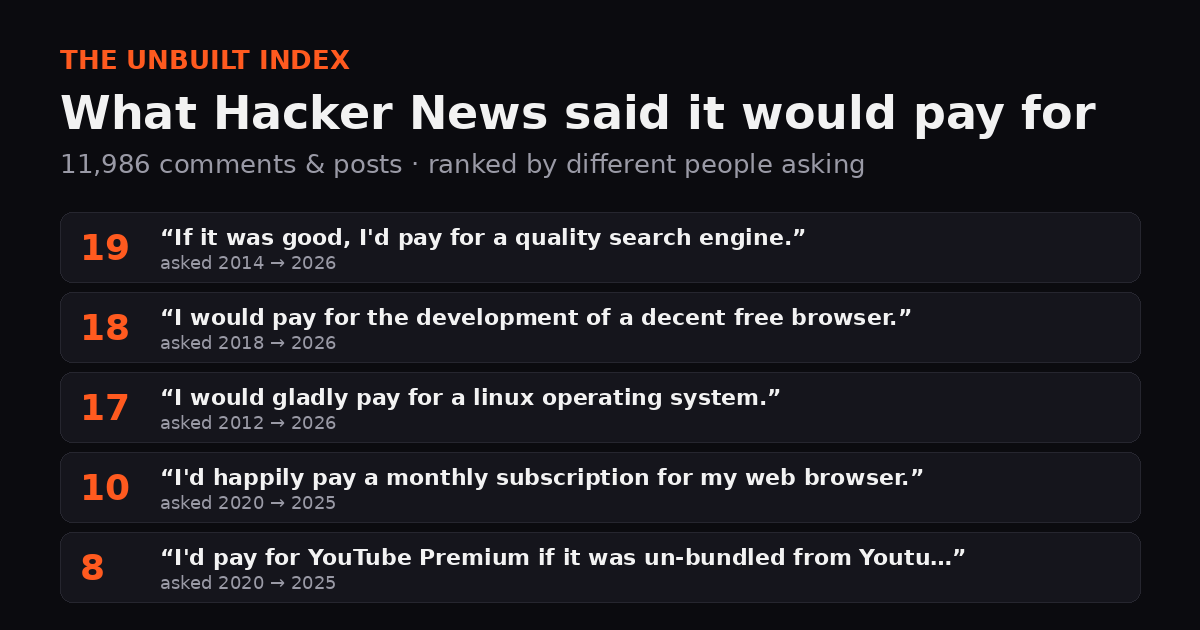
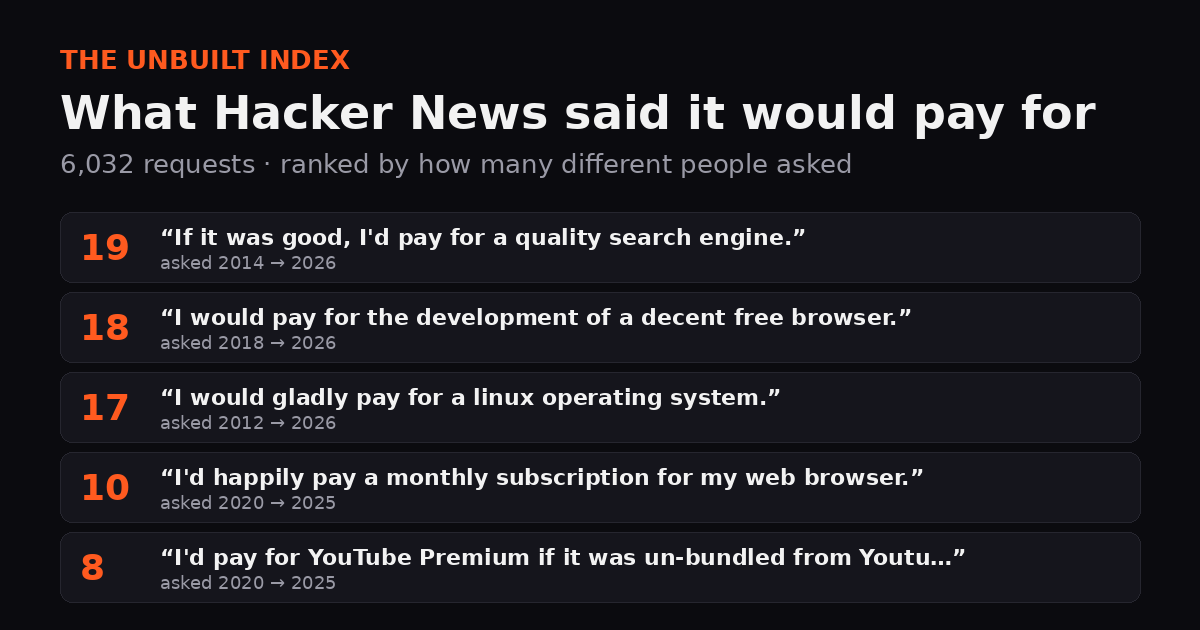
Headline counts request sentences, not raw matches

Changed region(s): [[0.0308, 0.2413, 0.74, 0.3016]]

diff --git a/docs/index.html b/docs/index.html
@@ -2,9 +2,9 @@
 <html lang="en"><head>
 <meta charset="utf-8"><meta name="viewport" content="width=device-width,initial-scale=1">
 <title>The Unbuilt Index: what Hacker News said it would pay for</title>
-<meta name="description" content="11,986 Hacker News comments and posts with “I'd pay for”, “someone should build” and “is there a tool that”, grouped by what people asked for. Free, open data. Pick one and build it.">
+<meta name="description" content="6,032 Hacker News requests (“I'd pay for”, “someone should build”, “is there a tool that”), grouped by what people asked for. Free, open data. Pick one and build it.">
 <meta property="og:title" content="The Unbuilt Index: what Hacker News said it would pay for">
-<meta property="og:description" content="11,986 HN comments and posts where people said “I'd pay for…” or “someone should build…”. Ranked by how many different people asked.">
+<meta property="og:description" content="6,032 times HN said “I'd pay for…” or “someone should build…”. Ranked by how many different people asked.">
 <meta property="og:image" content="https://nidhi-bhai.github.io/unbuilt/og.png">
 <meta property="og:url" content="https://nidhi-bhai.github.io/unbuilt/">
 <meta name="twitter:card" content="summary_large_image">
@@ -31,8 +31,8 @@ button{cursor:pointer;border:0;border-radius:10px;padding:12px 16px;font-weight:
 .note{color:var(--mut);font-size:14px}footer{color:var(--mut);font-size:13px;margin-top:40px}
 </style></head><body><main>
 <div class="kick">The Unbuilt Index · updated <span id="upd"></span></div>
-<h1>Hacker News told us what it would pay for. <span id="h1n"></span> times.</h1>
-<p class="sub">Every Hacker News comment and post we could pull that says <b>“I'd pay for”</b>, <b>“someone should build”</b>, <b>“take my money”</b> or <b>“is there a tool that”</b>. Grouped by what people asked for. Ranked by how many <i>different</i> people asked. Pick one and build it. They already asked.</p>
+<h1>Hacker News asked for <span id="h1n"></span> things. Here's what it would pay for.</h1>
+<p class="sub">We pulled every Hacker News comment and post we could find that says <b>“I'd pay for”</b>, <b>“someone should build”</b>, <b>“take my money”</b> or <b>“is there a tool that”</b>. Grouped by what people asked for. Ranked by how many <i>different</i> people asked. Pick one and build it. They already asked.</p>
 <div class="stats" id="stats"></div>
 
 <h2>Is anyone asking for your idea?</h2>
@@ -71,8 +71,8 @@ function share(i){const c=D.clusters[i];const q=c.q.length>140?c.q.slice(0,137)+
 function copy(i){navigator.clipboard.writeText(URL0+'#t'+(i+1));const b=document.getElementById('cp'+i);b.textContent='Copied ✨';setTimeout(()=>b.textContent='Copy link',1500)}
 function toggle(i){document.getElementById('it'+i).classList.toggle('open')}
 fetch('data.json').then(r=>r.json()).then(d=>{D=d;const s=d.stats;
- document.getElementById('upd').textContent=d.updated;document.getElementById('h1n').textContent=fmt(s.matched);document.getElementById('nreq').textContent=fmt(s.requests);
- document.getElementById('stats').innerHTML=[[s.matched,'HN comments & posts matched'],[s.requests,'concrete request sentences'],[s.people,'different HN accounts asking'],[s.product,'about software & products'],[s.themes,'themes asked by 3+ people']].map(([n,l])=>`<div class="stat"><b>${fmt(n)}</b><span>${l}</span></div>`).join('');
+ document.getElementById('upd').textContent=d.updated;document.getElementById('h1n').textContent=fmt(s.requests);document.getElementById('nreq').textContent=fmt(s.requests);
+ document.getElementById('stats').innerHTML=[[s.matched,'HN comments & posts phrase-matched'],[s.requests,'concrete request sentences'],[s.people,'different HN accounts asking'],[s.product,'about software & products'],[s.themes,'themes asked by 3+ people']].map(([n,l])=>`<div class="stat"><b>${fmt(n)}</b><span>${l}</span></div>`).join('');
  document.getElementById('themes').innerHTML=d.clusters.map((c,i)=>`<div class="theme" id="t${i+1}"><div class="top"><div class="rank">#${i+1}</div><div class="n">${c.n}<small>people</small></div><div style="flex:1;cursor:pointer" onclick="toggle(${i})"><div class="q">“${E(c.q)}”</div><div class="meta">Asked ${E(c.first.slice(0,4))} → ${E(c.last.slice(0,4))} · ${c.items.length} requests</div><div class="chips">${c.kw.map(k=>`<span>${E(k)}</span>`).join('')}</div></div></div>
  <div class="acts"><button class="ghost" onclick="toggle(${i})">Read all ${c.items.length}</button><button class="ghost" onclick="share(${i})">Share on X</button><button class="ghost" id="cp${i}" onclick="copy(${i})">Copy link</button></div>
  <div class="items" id="it${i}">${c.items.map(item).join('')}</div></div>`).join('');

diff --git a/og.py b/og.py
@@ -7,7 +7,7 @@ W,H=1200,630;im=Image.new('RGB',(W,H),'#0b0b0f');g=ImageDraw.Draw(im)
 f=lambda p,s:ImageFont.truetype(p,s)
 g.text((60,44),'THE UNBUILT INDEX',font=f(B,26),fill='#ff5a1f')
 g.text((60,86),'What Hacker News said it would pay for',font=f(B,46),fill='#f2f2f2')
-g.text((60,148),f"{d['stats']['matched']:,} comments & posts · ranked by different people asking",font=f(R,26),fill='#9a9aa6')
+g.text((60,148),f"{d['stats']['requests']:,} requests · ranked by how many different people asked",font=f(R,26),fill='#9a9aa6')
 y=212
 for c in d['clusters'][:5]:
     q=c['q'];q=q if len(q)<62 else q[:59]+'…'

diff --git a/README.md b/README.md
@@ -1,6 +1,6 @@
 # The Unbuilt Index
 
-**What Hacker News said it would pay for.** 11,986 HN comments and posts that say "I'd pay for", "someone should build", "take my money" or "is there a tool that", grouped by what people asked for and ranked by how many *different* people asked.
+**What Hacker News said it would pay for.** 6,032 request sentences, pulled from 11,986 HN comments and posts that match "I'd pay for", "someone should build", "take my money" or "is there a tool that", grouped by what people asked for and ranked by how many *different* people asked.
 
 Live: https://nidhi-bhai.github.io/unbuilt/
 
